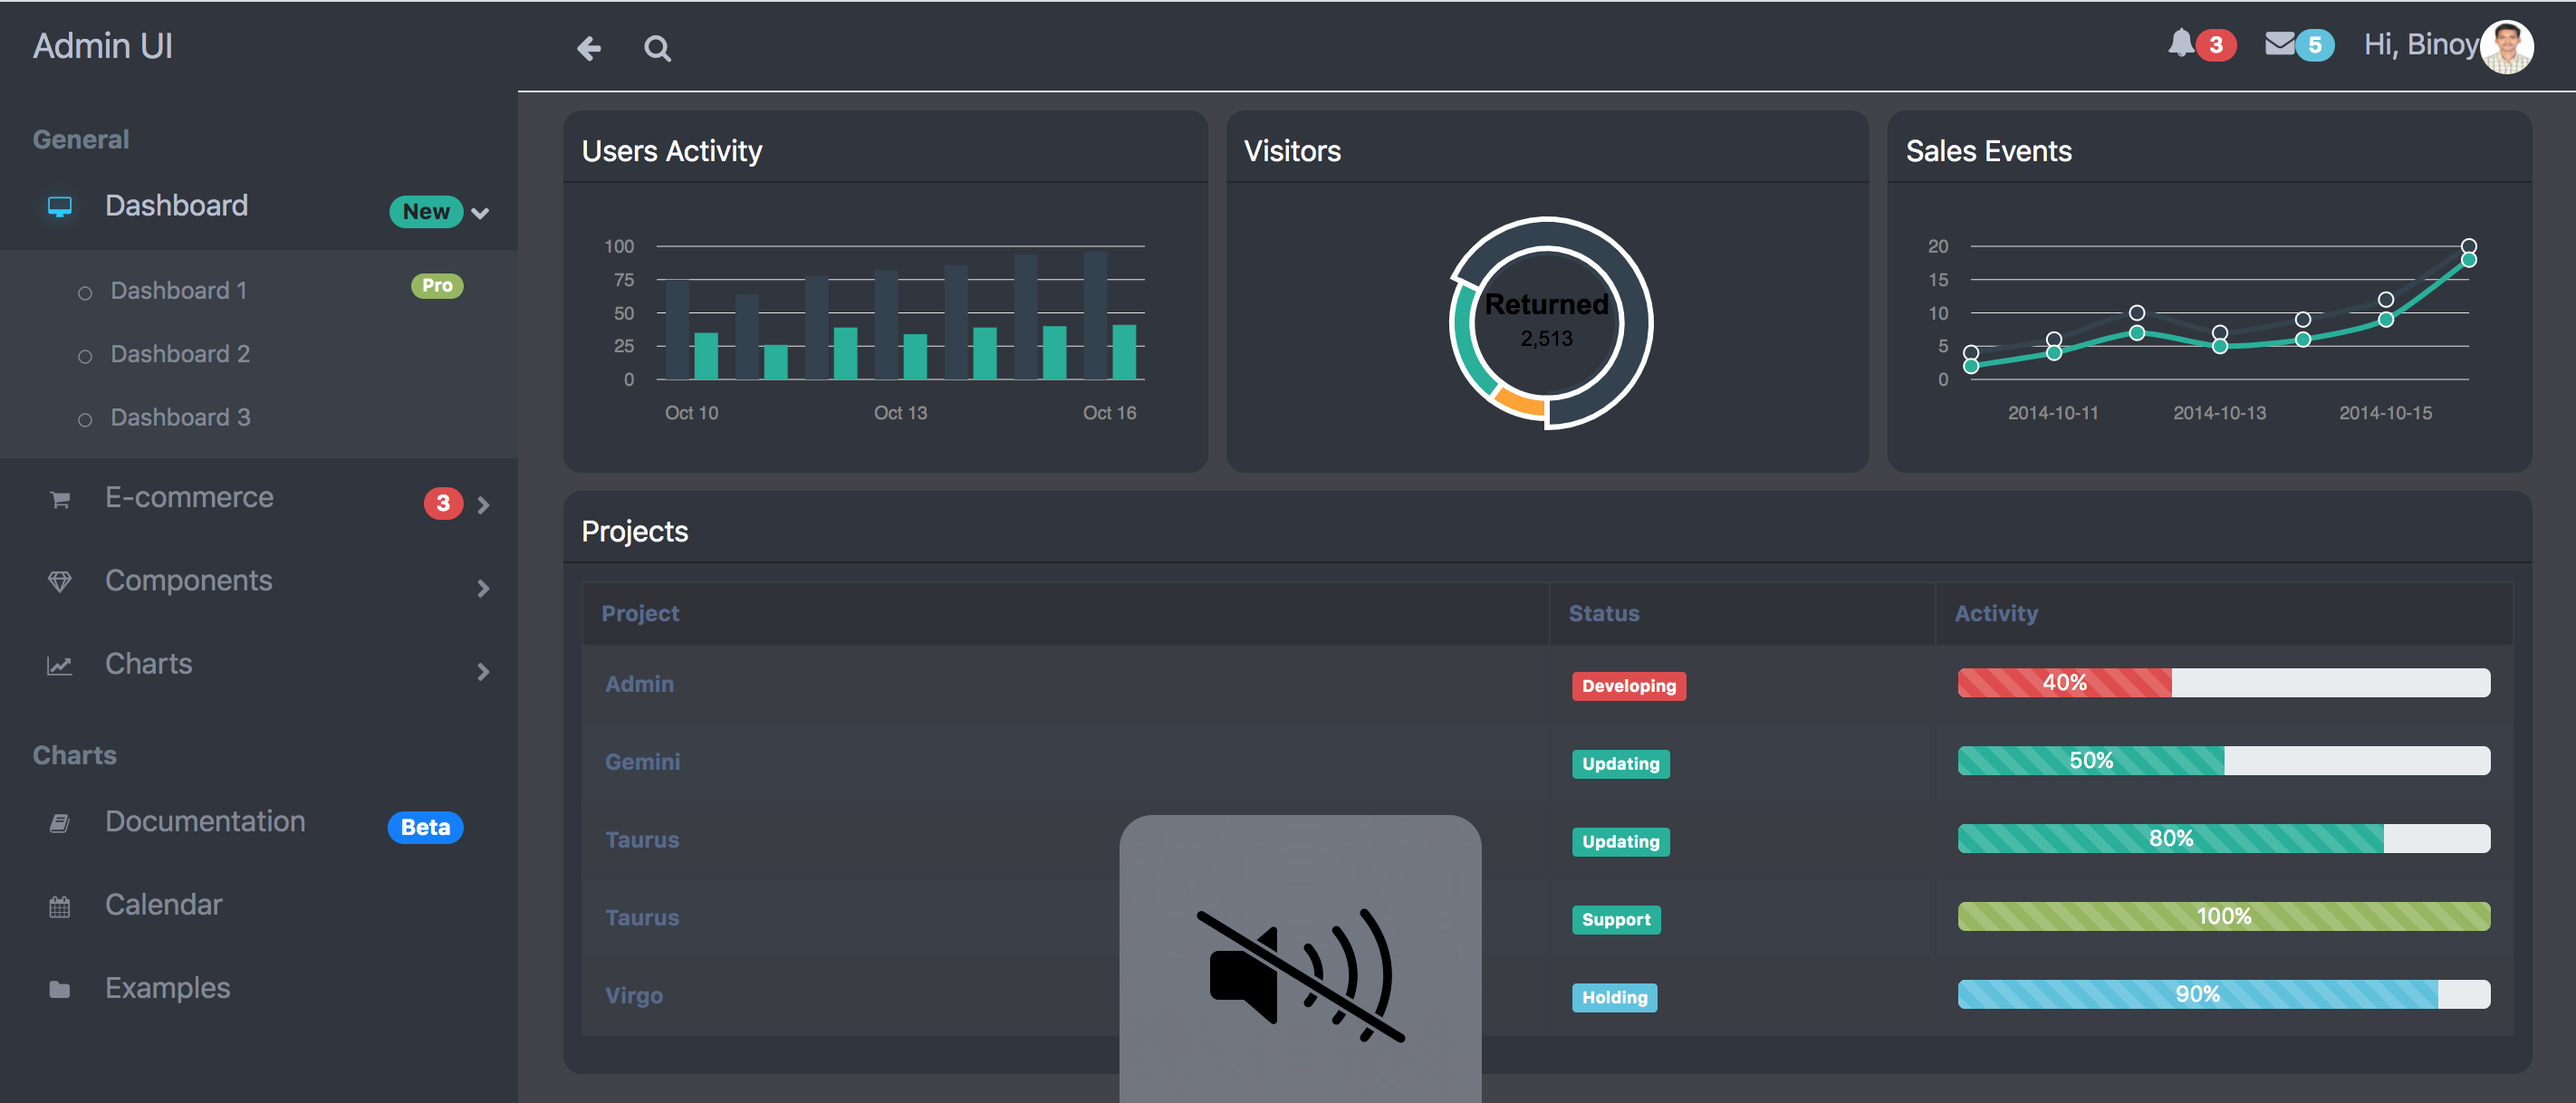
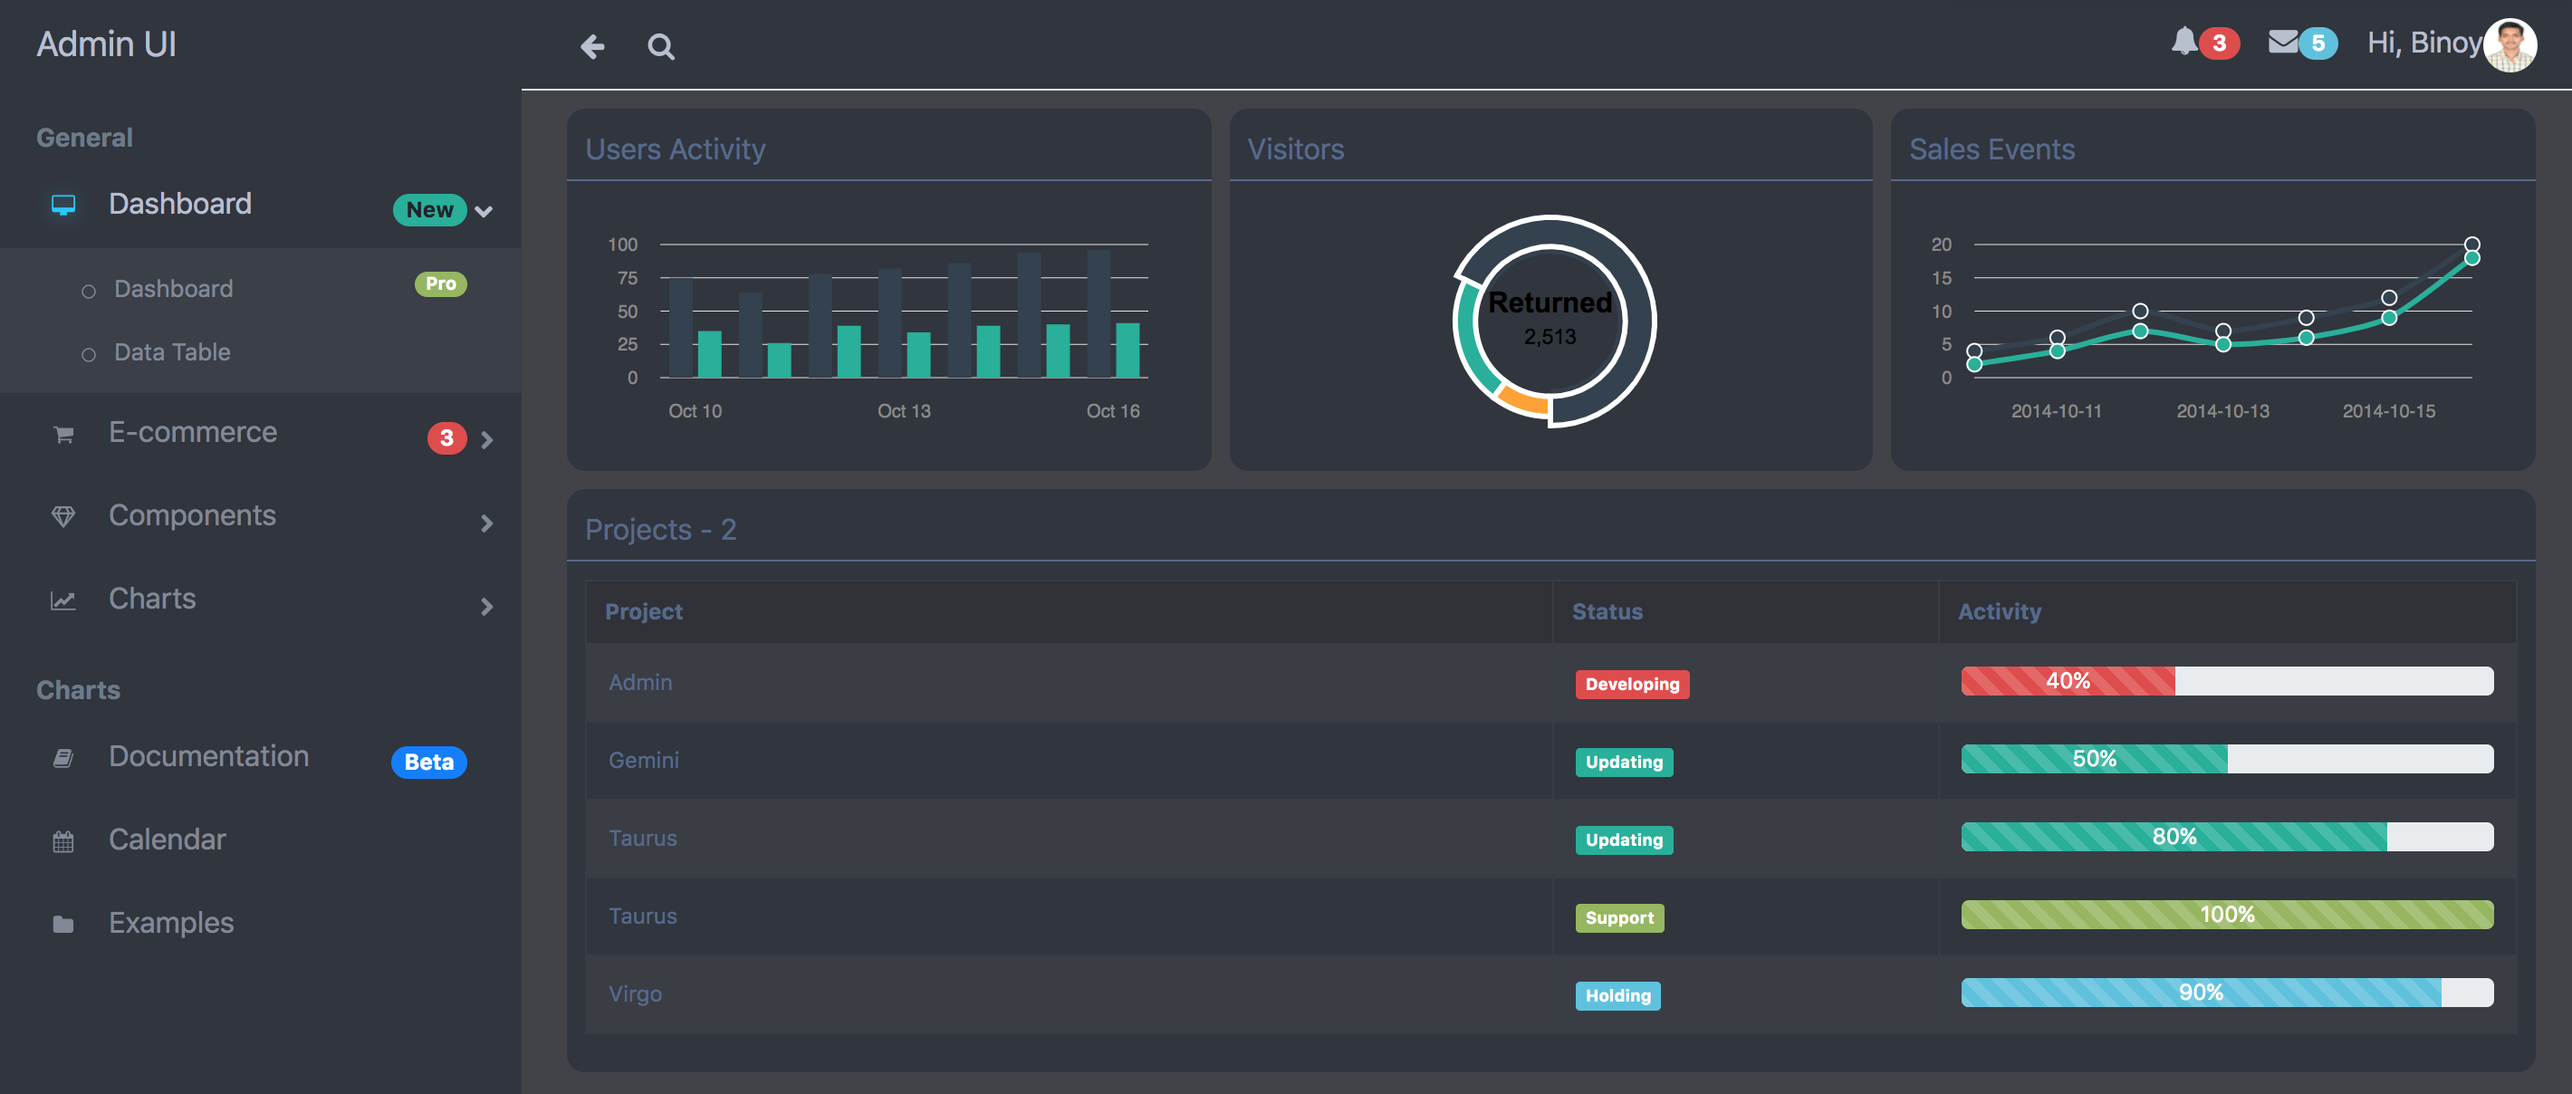
Data table page added and linked in the menu

diff --git a/src/pages/DataTablePage.js b/src/pages/DataTablePage.js
@@ -1,0 +1,130 @@
+
+import React from 'react';
+
+import PagePanel from '../components/dashboard/PagePanel'
+import PageContent from '../components/dashboard/PageContent'
+import Row from '../components/dashboard/Row'
+
+import DataTable from '../components/table/DataTable'
+
+class DataTablePage extends React.Component {
+
+    render() {
+
+        const projectData1 = {
+            head : [
+                {title: "Name", width: "30%"},
+                {title: "Position", width: "20%"},
+                {title: "Office", width: "20%"},
+                {title: "Age", width: "10%"},
+                {title: "Start date", width: "10%"},
+                {title: "Salary", width: "10%"}
+            ],
+
+            body: [
+                [
+                    {value: "Tiger Nixon"},
+                    {value: "System Architect"},
+                    {value: "Edinburgh"},
+                    {value: "61"},
+                    {value: "2011/04/25"},
+                    {value: "$320,800"}
+                ],
+                [
+                    {value: "Garrett Winters"},
+                    {value: "Accountant"},
+                    {value: "Tokyo"},
+                    {value: "63"},
+                    {value: "2011/07/25"},
+                    {value: "$170,750"}
+                ],
+                [
+                    {value: "Ashton Cox"},
+                    {value: "Junior Technical Author"},
+                    {value: "San Francisco"},
+                    {value: "66"},
+                    {value: "2009/01/12"},
+                    {value: "$86,000"}
+                ],
+                [
+                    {value: "Cedric Kelly"},
+                    {value: "Senior Javascript Developer"},
+                    {value: "Edinburgh"},
+                    {value: "22"},
+                    {value: "2012/03/29"},
+                    {value: "$433,060"}
+                ],
+                [
+                    {value: "Airi Satou"},
+                    {value: "Accountant"},
+                    {value: "Tokyo"},
+                    {value: "33"},
+                    {value: "2008/11/28"},
+                    {value: "$162,700"}
+                ],
+                [
+                    {value: "Brielle Williamson"},
+                    {value: "Integration Specialist"},
+                    {value: "New York"},
+                    {value: "61"},
+                    {value: "2012/12/02"},
+                    {value: "$372,000"}
+                ],
+                [
+                    {value: "Herrod Chandler"},
+                    {value: "Sales Assistant"},
+                    {value: "San Francisco"},
+                    {value: "59"},
+                    {value: "2012/08/06"},
+                    {value: "$137,500"}
+                ],
+                [
+                    {value: "Rhona Davidson"},
+                    {value: "Integration Specialist"},
+                    {value: "Tokyo"},
+                    {value: "55"},
+                    {value: "2010/10/14"},
+                    {value: "$327,900"}
+                ],
+                [
+                    {value: "Colleen Hurst"},
+                    {value: "Javascript Developer"},
+                    {value: "San Francisco"},
+                    {value: "39"},
+                    {value: "2009/09/15"},
+                    {value: "$205,500"}
+                ],
+                [
+                    {value: "Sonya Frost"},
+                    {value: "Software Engineer"},
+                    {value: "Edinburgh"},
+                    {value: "23"},
+                    {value: "2008/12/13"},
+                    {value: "$103,600"}
+                ],
+                [
+                    {value: "Jena Gaines"},
+                    {value: "Office Manager"},
+                    {value: "London"},
+                    {value: "30"},
+                    {value: "2008/12/19"},
+                    {value: "$90,560"}
+                ]
+            ]
+
+        };
+
+        return (
+            <PageContent>
+                <Row>
+                    <PagePanel title="Projects - 1" cols="col-xxl-7 col-lg-12">
+                        <DataTable id="example1"  width="100%" data={projectData1}></DataTable>
+                    </PagePanel>
+                </Row>
+            </PageContent>
+        );
+
+    }
+}
+
+export default DataTablePage;

diff --git a/src/pages/DashboardPage.js b/src/pages/DashboardPage.js
@@ -19,109 +19,7 @@ class DashboardPage extends React.Component {
 
     render() {
 
-        const projectData1 = {
-            head : [
-                {title: "Name", width: "30%"},
-                {title: "Position", width: "20%"},
-                {title: "Office", width: "20%"},
-                {title: "Age", width: "10%"},
-                {title: "Start date", width: "10%"},
-                {title: "Salary", width: "10%"}
-            ],
-
-            body: [
-                [
-                    {value: "Tiger Nixon"},
-                    {value: "System Architect"},
-                    {value: "Edinburgh"},
-                    {value: "61"},
-                    {value: "2011/04/25"},
-                    {value: "$320,800"}
-                ],
-                [
-                    {value: "Garrett Winters"},
-                    {value: "Accountant"},
-                    {value: "Tokyo"},
-                    {value: "63"},
-                    {value: "2011/07/25"},
-                    {value: "$170,750"}
-                ],
-                [
-                    {value: "Ashton Cox"},
-                    {value: "Junior Technical Author"},
-                    {value: "San Francisco"},
-                    {value: "66"},
-                    {value: "2009/01/12"},
-                    {value: "$86,000"}
-                ],
-                [
-                    {value: "Cedric Kelly"},
-                    {value: "Senior Javascript Developer"},
-                    {value: "Edinburgh"},
-                    {value: "22"},
-                    {value: "2012/03/29"},
-                    {value: "$433,060"}
-                ],
-                [
-                    {value: "Airi Satou"},
-                    {value: "Accountant"},
-                    {value: "Tokyo"},
-                    {value: "33"},
-                    {value: "2008/11/28"},
-                    {value: "$162,700"}
-                ],
-                [
-                    {value: "Brielle Williamson"},
-                    {value: "Integration Specialist"},
-                    {value: "New York"},
-                    {value: "61"},
-                    {value: "2012/12/02"},
-                    {value: "$372,000"}
-                ],
-                [
-                    {value: "Herrod Chandler"},
-                    {value: "Sales Assistant"},
-                    {value: "San Francisco"},
-                    {value: "59"},
-                    {value: "2012/08/06"},
-                    {value: "$137,500"}
-                ],
-                [
-                    {value: "Rhona Davidson"},
-                    {value: "Integration Specialist"},
-                    {value: "Tokyo"},
-                    {value: "55"},
-                    {value: "2010/10/14"},
-                    {value: "$327,900"}
-                ],
-                [
-                    {value: "Colleen Hurst"},
-                    {value: "Javascript Developer"},
-                    {value: "San Francisco"},
-                    {value: "39"},
-                    {value: "2009/09/15"},
-                    {value: "$205,500"}
-                ],
-                [
-                    {value: "Sonya Frost"},
-                    {value: "Software Engineer"},
-                    {value: "Edinburgh"},
-                    {value: "23"},
-                    {value: "2008/12/13"},
-                    {value: "$103,600"}
-                ],
-                [
-                    {value: "Jena Gaines"},
-                    {value: "Office Manager"},
-                    {value: "London"},
-                    {value: "30"},
-                    {value: "2008/12/19"},
-                    {value: "$90,560"}
-                ]
-            ]
-
-        };
-
+        
         return (
             <PageContent>
                 <Row>
@@ -134,11 +32,6 @@ class DashboardPage extends React.Component {
 
                     <PagePanel title="Sales Events" cols="col-xxl-7 col-lg-4" height={{ value: 200, unit: "px" }} id="dashboard-line-1" >
 
-                    </PagePanel>
-                </Row>
-                <Row>
-                    <PagePanel title="Projects - 1" cols="col-xxl-7 col-lg-12">
-                        <DataTable id="example1"  width="100%" data={projectData1}></DataTable>
                     </PagePanel>
                 </Row>
                 <Row>

diff --git a/src/pages/DashboardMainPage.js b/src/pages/DashboardMainPage.js
@@ -26,6 +26,8 @@ import ToolbarDropdownProfile from '../components/dashboard/topbar/ToolbarDropdo
 import ToolbarDropdownDivider from '../components/dashboard/topbar/ToolbarDropdownDivider'
 
 import DashboardPage from './DashboardPage'
+import DataTablePage from './DataTablePage'
+
 
 class DashboardMainPage extends React.Component {
 
@@ -43,9 +45,8 @@ class DashboardMainPage extends React.Component {
                                 badge={{ label: "New", type: "badge-warning" }}>
 
                                 <SidebarSubmenu>
-                                    <SidebarMenuitem label="Dashboard 1" badge={{ label: "Pro", type: "badge-success" }} href="/dashboard-page" />
-                                    <SidebarMenuitem label="Dashboard 2" />
-                                    <SidebarMenuitem label="Dashboard 3" />
+                                    <SidebarMenuitem label="Dashboard" badge={{ label: "Pro", type: "badge-success" }} href="/dashboard-page" />
+                                    <SidebarMenuitem label="Data Table" href="/data-table"/>
                                 </SidebarSubmenu>
                             </SidebarDropdown>
 
@@ -206,6 +207,10 @@ class DashboardMainPage extends React.Component {
 
                             <Route exact path="/dashboard-page">
                                 <DashboardPage />
+                            </Route>
+
+                            <Route exact path="/data-table">
+                                <DataTablePage />
                             </Route>
                         </Switch>
                     </Router>
